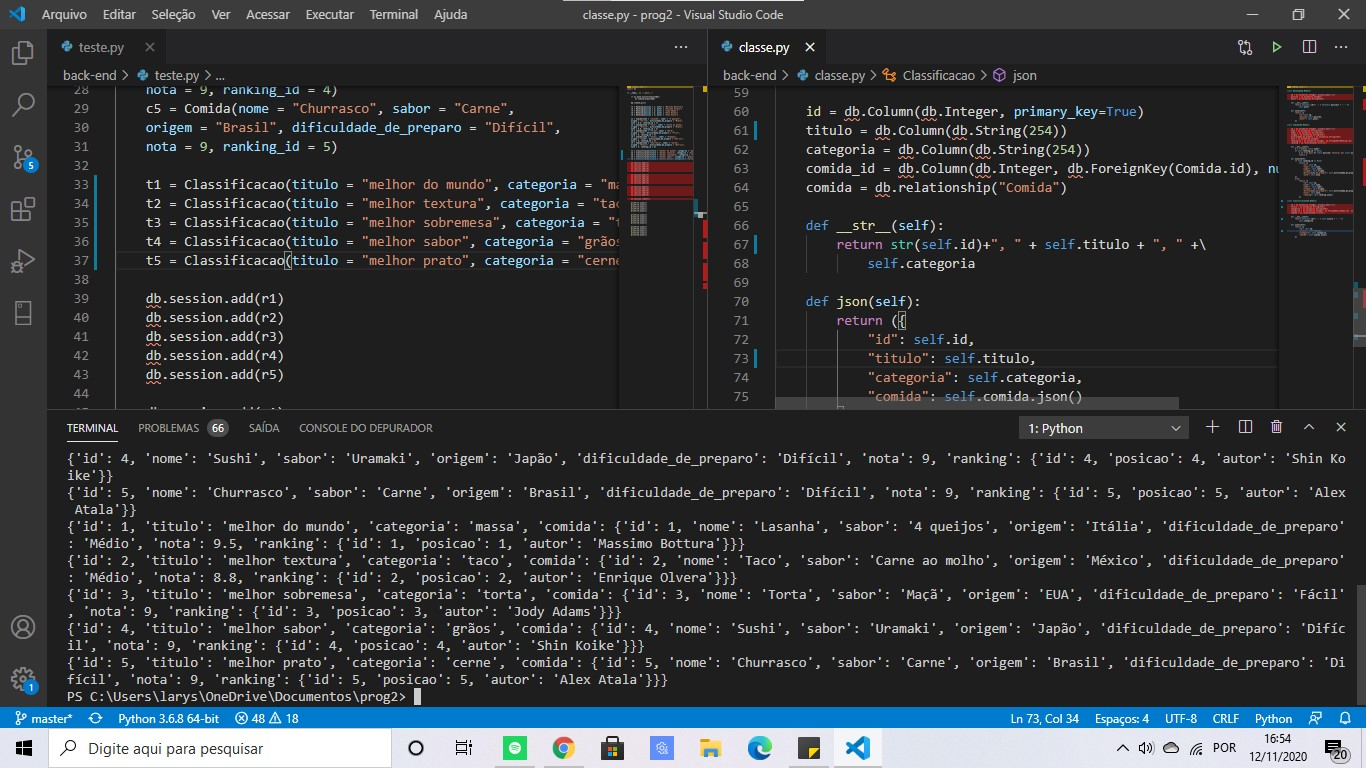
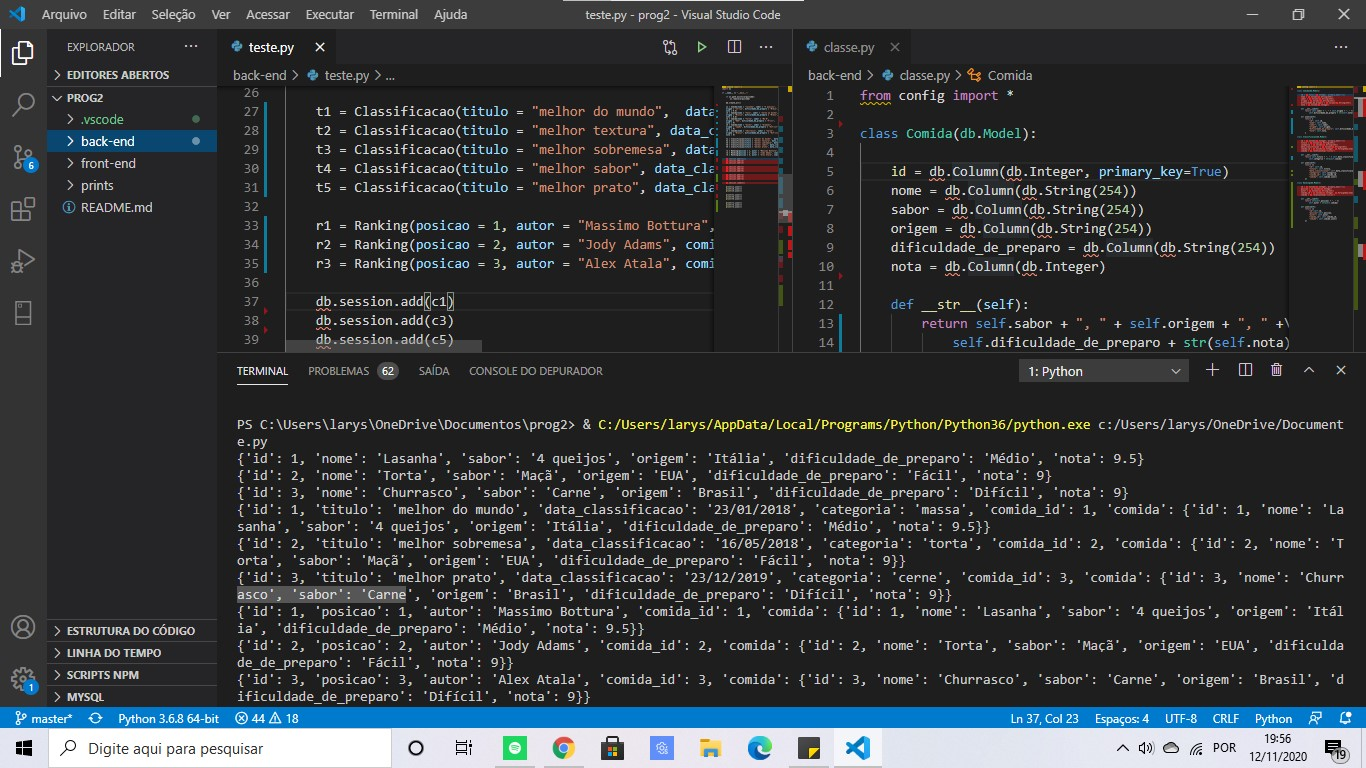
adição av5

diff --git a/back-end/classe.py b/back-end/classe.py
@@ -1,22 +1,5 @@
 from config import *
 
-class Ranking(db.Model):
-
-    id = db.Column(db.Integer, primary_key=True)
-    posicao = db.Column(db.Integer)
-    autor = db.Column(db.String(254))
-
-    def __str__(self):
-        return str(self.id)+", " + str(self.posicao) + ", " +\
-            self.autor
-
-    def json(self):
-        return ({
-            "id":self.id,
-            "posicao":self.posicao,
-            "autor": self.autor,
-        })
-
 class Comida(db.Model):
 
     id = db.Column(db.Integer, primary_key=True)
@@ -25,52 +8,63 @@ class Comida(db.Model):
     origem = db.Column(db.String(254))
     dificuldade_de_preparo = db.Column(db.String(254))
     nota = db.Column(db.Integer)
-    ranking_id = db.Column(db.Integer, db.ForeignKey(Ranking.id))
-    ranking = db.relationship("Ranking")
 
     def __str__(self):
-        s = f"Comida {self.nome}"
-        if self.ranking_id != None:
-            s += f"na posição {self.posicao} feito(a) por {self.autor}" 
-            return s
+        return self.sabor + ", " + self.origem + ", " +\
+            self.dificuldade_de_preparo + str(self.nota)
 
     def json(self):
-        if self.ranking_id is None:
-            return ({
-                "id": self.id,
-                "nome": self.nome,
-                "sabor": self.sabor,
-                "origem": self.origem,
-                "dificuldade_de_preparo": self.dificuldade_de_preparo,
-                "nota": self.nota
-        })
-        else:
-            return ({
-                "id": self.id,
-                "nome": self.nome,
-                "sabor": self.sabor,
-                "origem": self.origem,
-                "dificuldade_de_preparo": self.dificuldade_de_preparo,
-                "nota": self.nota,
-                "ranking": self.ranking.json()
-            })
+        return {
+            "id": self.id,
+            "nome": self.nome,
+            "sabor": self.sabor,
+            "origem": self.origem,
+            "dificuldade_de_preparo": self.dificuldade_de_preparo,
+            "nota": self.nota,
+        }
 
 class Classificacao(db.Model):
 
     id = db.Column(db.Integer, primary_key=True) 
     titulo = db.Column(db.String(254)) 
     categoria = db.Column(db.String(254))
+    data_classificacao = db.Column(db.String(254))
     comida_id = db.Column(db.Integer, db.ForeignKey(Comida.id), nullable=False)
     comida = db.relationship("Comida")
 
     def __str__(self): 
-        return str(self.id)+", " + self.titulo + ", " +\
-            self.categoria
+        return self.titulo + ", " + self.data_classificacao +\
+            self.categoria + str(self.comida)
 
     def json(self):
         return ({
             "id": self.id,
             "titulo": self.titulo,
+            "data_classificacao": self.data_classificacao,
             "categoria": self.categoria,
+            "comida_id": self.comida_id,
             "comida": self.comida.json()
         }) 
+
+class Ranking(db.Model):
+
+    id = db.Column(db.Integer, primary_key=True)
+    posicao = db.Column(db.Integer)
+    autor = db.Column(db.String(254))
+    comida_id = db.Column(db.Integer, db.ForeignKey(Comida.id))
+    comida = db.relationship("Comida")
+
+    def __str__(self):
+        return str(self.posicao) + ", " +\
+            self.autor + str(self.comida)
+
+    def json(self):
+        return ({
+            "id":self.id,
+            "posicao":self.posicao,
+            "autor": self.autor,
+            "comida_id": self.comida_id,
+            "comida": self.comida.json()
+        })
+
+

diff --git a/back-end/teste.py b/back-end/teste.py
@@ -8,68 +8,55 @@ if __name__ == "__main__":
 
     db.create_all()
 
-    r1 = Ranking(posicao = 1, autor = "Massimo Bottura")
-    r2 = Ranking(posicao = 2, autor = "Enrique Olvera")
-    r3 = Ranking(posicao = 3, autor = "Jody Adams")
-    r4 = Ranking(posicao = 4, autor = "Shin Koike")
-    r5 = Ranking(posicao = 5, autor = "Alex Atala")
-
     c1 = Comida(nome = "Lasanha", sabor = "4 queijos", 
     origem = "Itália", dificuldade_de_preparo = "Médio", 
-    nota = 9.5, ranking_id = 1)
+    nota = 9.5)
     c2 = Comida(nome = "Taco", sabor = "Carne ao molho", 
     origem = "México", dificuldade_de_preparo = "Médio", 
-    nota = 8.8, ranking_id = 2)
+    nota = 8.8)
     c3 = Comida(nome = "Torta", sabor = "Maçã", 
     origem = "EUA", dificuldade_de_preparo = "Fácil", 
-    nota = 9, ranking_id = 3)
+    nota = 9)
     c4 = Comida(nome = "Sushi", sabor = "Uramaki", 
     origem = "Japão", dificuldade_de_preparo = "Difícil", 
-    nota = 9, ranking_id = 4)
+    nota = 9)
     c5 = Comida(nome = "Churrasco", sabor = "Carne", 
     origem = "Brasil", dificuldade_de_preparo = "Difícil", 
-    nota = 9, ranking_id = 5)
+    nota = 9)
 
-    t1 = Classificacao(titulo = "melhor do mundo", categoria = "massa", comida_id = 1)
-    t2 = Classificacao(titulo = "melhor textura", categoria = "taco", comida_id = 2)
-    t3 = Classificacao(titulo = "melhor sobremesa", categoria = "torta", comida_id = 3)
-    t4 = Classificacao(titulo = "melhor sabor", categoria = "grãos", comida_id = 4)
-    t5 = Classificacao(titulo = "melhor prato", categoria = "cerne", comida_id = 5)
+    t1 = Classificacao(titulo = "melhor do mundo",  data_classificacao = "23/01/2018", categoria = "massa", comida = c1)
+    t2 = Classificacao(titulo = "melhor textura", data_classificacao = "12/07/2018", categoria = "taco", comida = c2)
+    t3 = Classificacao(titulo = "melhor sobremesa", data_classificacao = "16/05/2018", categoria = "torta", comida = c3)
+    t4 = Classificacao(titulo = "melhor sabor", data_classificacao = "11/10/2019", categoria = "grãos", comida = c4)
+    t5 = Classificacao(titulo = "melhor prato", data_classificacao = "23/12/2019", categoria = "cerne", comida = c5)
+
+    r1 = Ranking(posicao = 1, autor = "Massimo Bottura", comida = c1)
+    r2 = Ranking(posicao = 2, autor = "Jody Adams", comida = c3)
+    r3 = Ranking(posicao = 3, autor = "Alex Atala", comida = c5)
+
+    db.session.add(c1)
+    db.session.add(c3)
+    db.session.add(c5)
+
+    db.session.add(t1)
+    db.session.add(t3)
+    db.session.add(t5)
 
     db.session.add(r1)
     db.session.add(r2)
     db.session.add(r3)
-    db.session.add(r4)
-    db.session.add(r5)
-
-    db.session.add(c1)
-    db.session.add(c2)
-    db.session.add(c3)
-    db.session.add(c4)
-    db.session.add(c5)
-
-    db.session.add(t1)
-    db.session.add(t2)
-    db.session.add(t3)
-    db.session.add(t4)
-    db.session.add(t5)
 
     db.session.commit()
+
+    print(c1.json())
+    print(c3.json())
+    print(c5.json())
+
+    print(t1.json())
+    print(t3.json())
+    print(t5.json())
     
     print(r1.json())
     print(r2.json())
     print(r3.json())
-    print(r4.json())
-    print(r5.json())
 
-    print(c1.json())
-    print(c2.json())
-    print(c3.json())
-    print(c4.json())
-    print(c5.json())
-
-    print(t1.json())
-    print(t2.json())
-    print(t3.json())
-    print(t4.json())
-    print(t5.json())
